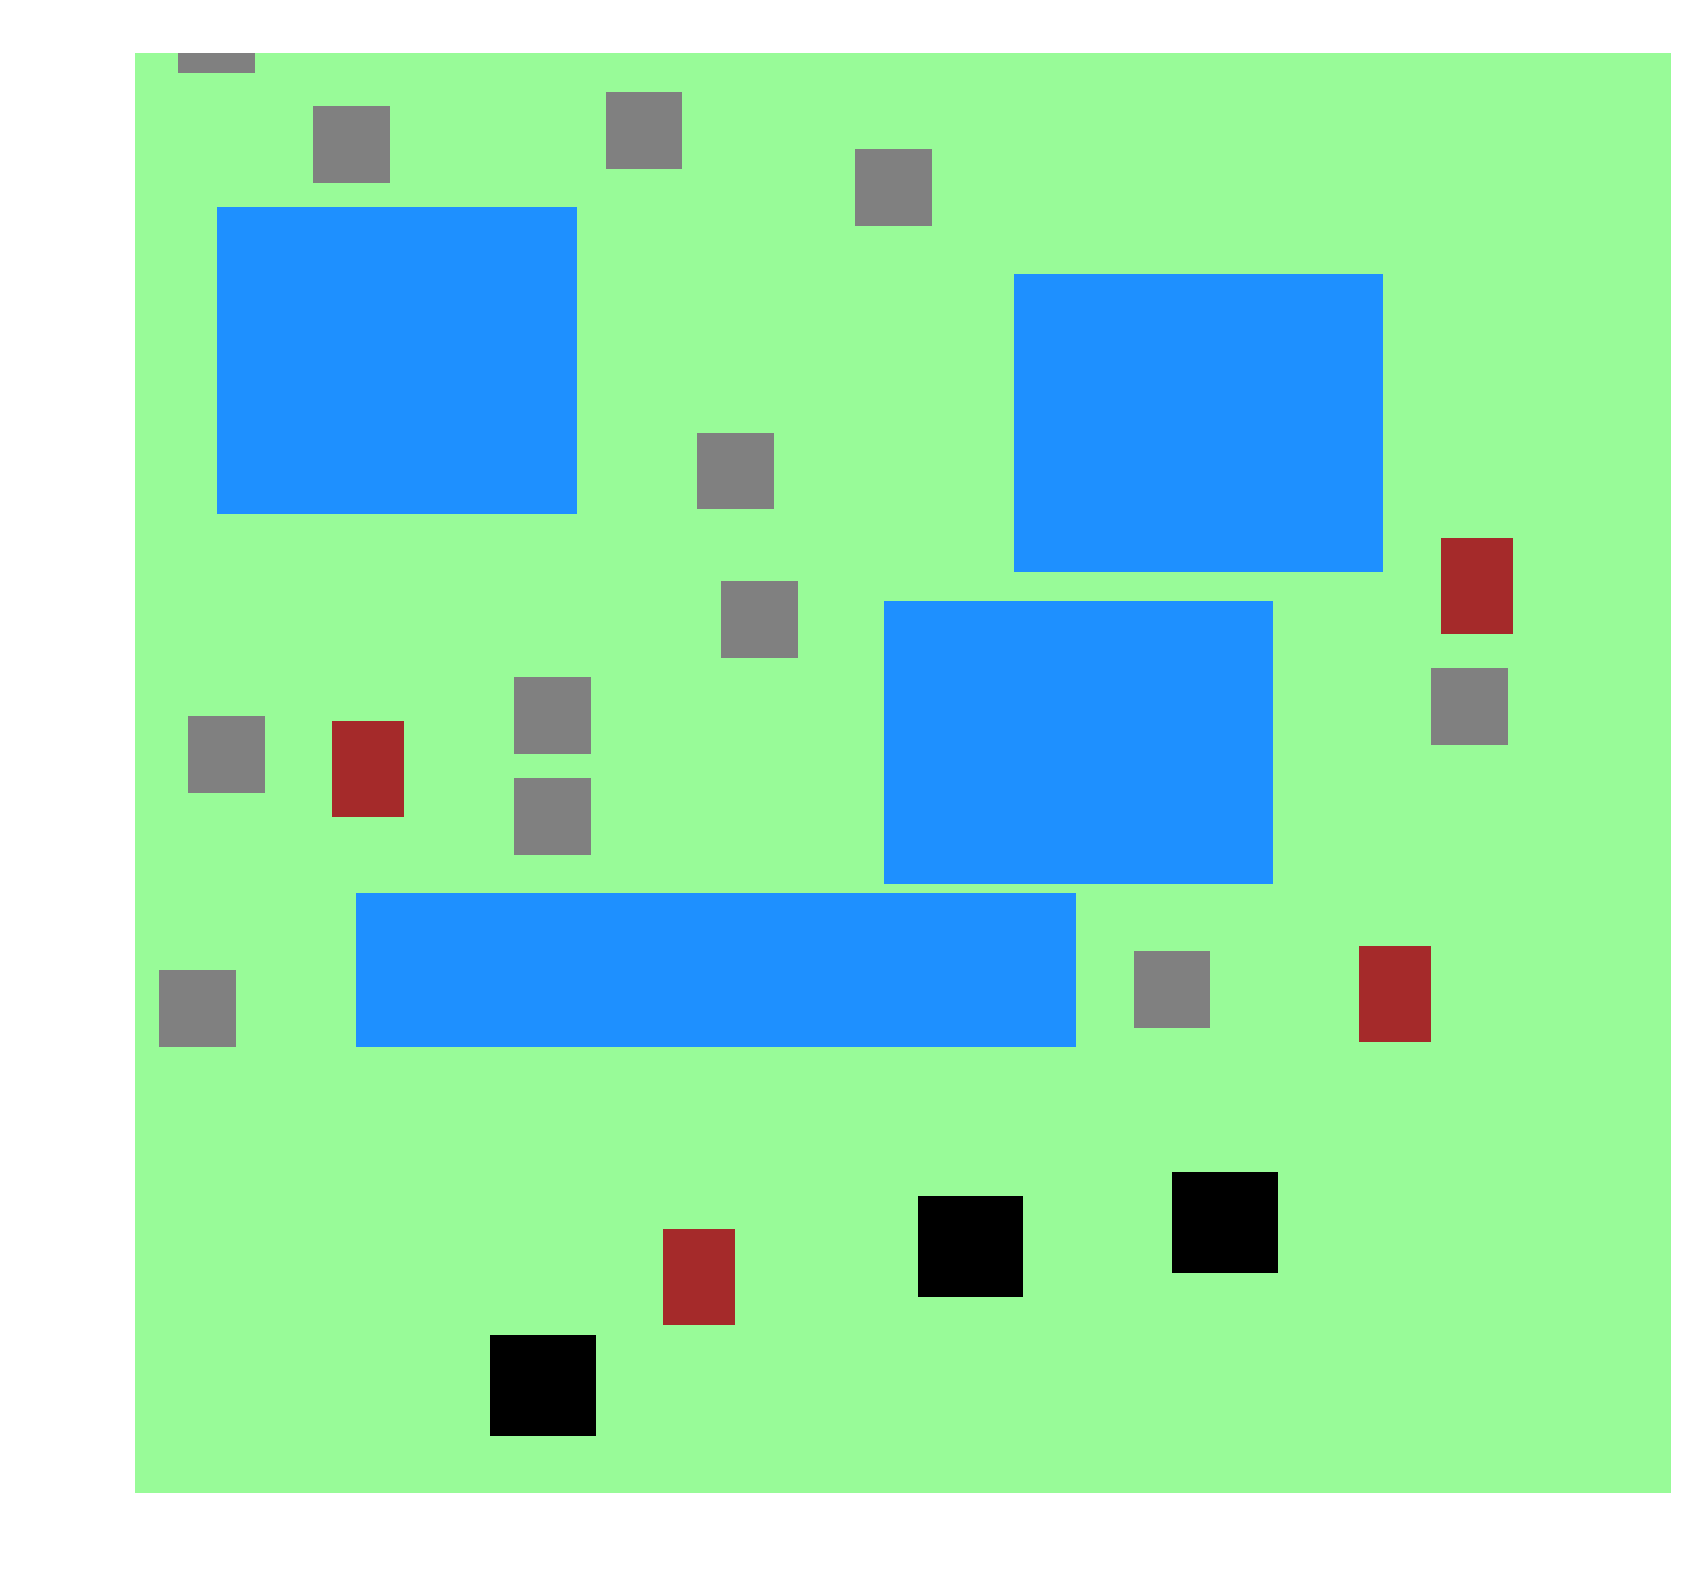
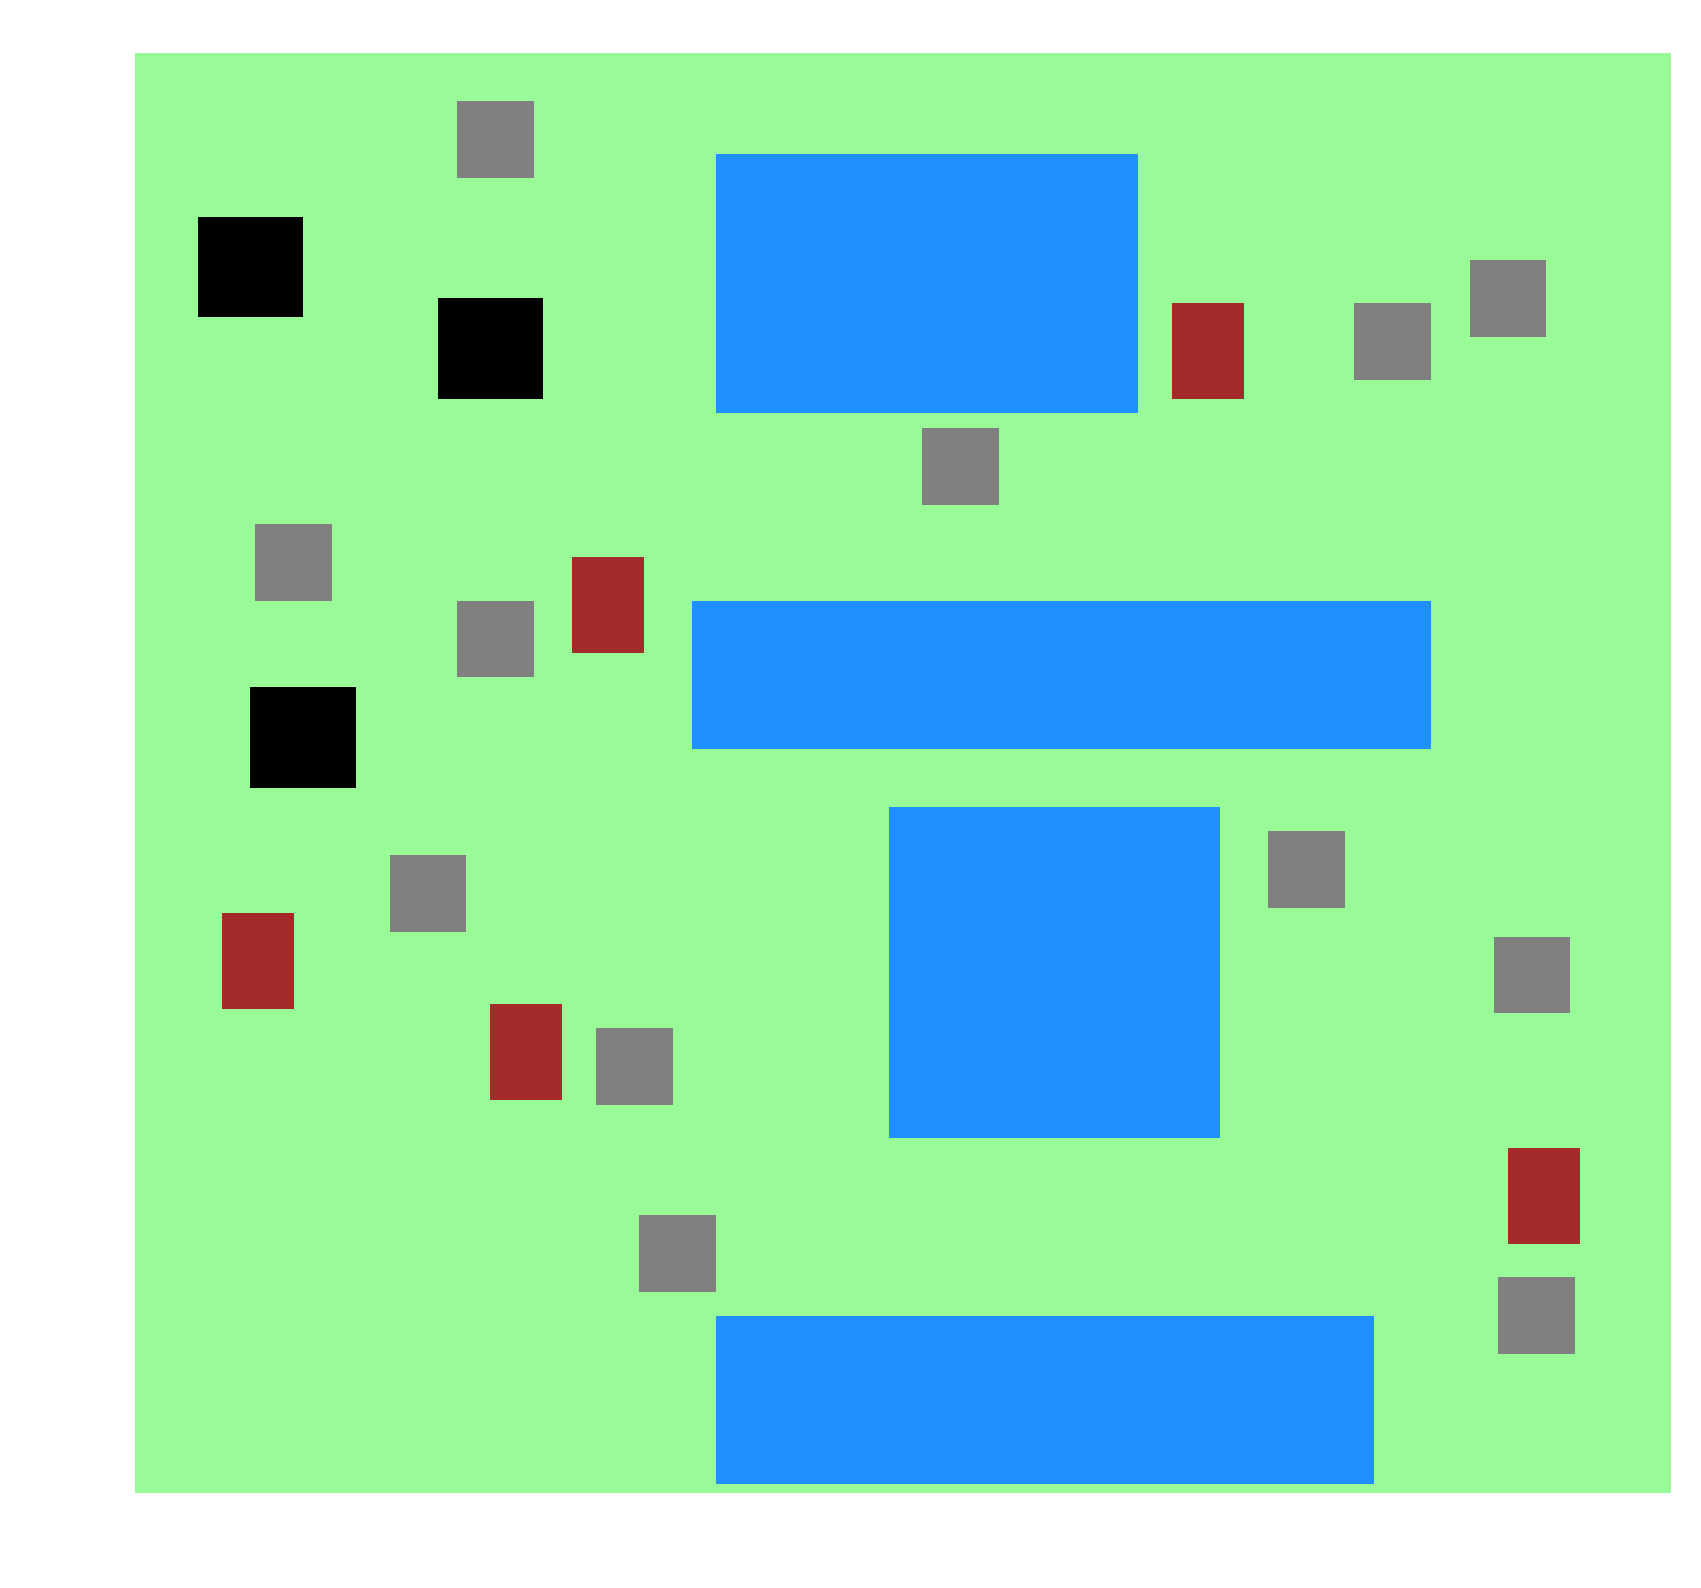
swap en schuif nu netjes binnen de map

diff --git a/swap.py b/swap.py
@@ -18,35 +18,44 @@ def swapHouse(combinatie):
     swap(huis1, huis2)
     mogelijk = True
 
-    # check if house 1 has enough space
-    for i in range (2,len(combinatie.houses)):
-        xiH1 = combinatie.houses[i].hoekpunt.x
-        yiH1 = combinatie.houses[i].hoekpunt.y
-        #check if H1 left and right corners are within iH1's x-range
-        if (xH1 - huis1.minVrij <= xiH1 <= xH1 + huis1.width + huis1.minVrij) or (xH1 - huis1.minVrij <= xiH1 + combinatie.houses[i].width <= xH1 + huis1.width + huis1.minVrij):
-            #check if H1 top and bottom corners are within iH1's y-range
-            if (yH1 - huis1.minVrij <= yiH1 <= yH1 + huis1.length + huis1.minVrij) or (yH1 - huis1.minVrij <= yiH1 + combinatie.houses[i].length <= yH1 + huis1.length + huis1.minVrij):
-                mogelijk = False
-        #check if iH1 left and right corners are within H1's x-range
-        if (xiH1 - combinatie.houses[i].minVrij <= xH1 <= xiH1 + combinatie.houses[i].width + combinatie.houses[i].minVrij) or (xiH1 - combinatie.houses[i].minVrij <= xH1 + huis1.width <= xiH1 + combinatie.houses[i].width + combinatie.houses[i].minVrij):
-            #check if iH1 top and bottom corners are within H1's y-range
-            if (yiH1 - combinatie.houses[i].minVrij <= yH1 <= yiH1 + combinatie.houses[i].length + combinatie.houses[i].minVrij) or (yiH1 - combinatie.houses[i].minVrij <= yH1 + huis1.length <= yiH1 + combinatie.houses[i].length + combinatie.houses[i].minVrij):
-                mogelijk = False
+    if xH1 - huis1.minVrij < 0 or xH1 + huis1.width + huis1.minVrij > combinatie.map.width:
+        mogelijk = False
+    elif yH1 - huis1.minVrij < 0 or yH1 + huis1.length + huis1.minVrij > combinatie.map.length:
+        mogelijk = False
+    elif xH2 - huis2.minVrij < 0 or xH2 + huis2.width + huis2.minVrij > combinatie.map.width:
+        mogelijk = False
+    elif yH2 - huis2.minVrij < 0 or yH2 + huis2.length + huis2.minVrij > combinatie.map.length:
+        mogelijk = False
 
-    # check if house 2 has enough space
-    for i in range (2,len(combinatie.houses)):
-        xiH2 = combinatie.houses[i].hoekpunt.x
-        yiH2 = combinatie.houses[i].hoekpunt.y
-        #check if H2 left and right corners are within iH2's x-range
-        if (xH2 - huis2.minVrij <= xiH2 <= xH2 + huis2.width + huis2.minVrij) or (xH2 - huis2.minVrij <= xiH2 + combinatie.houses[i].width <= xH2 + huis2.width + huis2.minVrij):
-            #check if H2 top and bottom corners are within H1's y-range
-            if (yH2 - huis2.minVrij <= yiH2 <= yH2 + huis2.length + huis2.minVrij) or (yH2 - huis2.minVrij <= yiH2 + combinatie.houses[i].length <= yH2 + huis2.length + huis2.minVrij):
-                mogelijk = False
-        #check if iH2 left and right corners are within H2's x-range
-        if (xiH2 - combinatie.houses[i].minVrij <= xH2 <= xiH2 + combinatie.houses[i].width + combinatie.houses[i].minVrij) or (xiH2 - combinatie.houses[i].minVrij <= xH2 + huis2.width <= xiH2 + combinatie.houses[i].width + combinatie.houses[i].minVrij):
-            #check if H1 top and bottom corners are within H2's y-range
-            if (yiH2 - combinatie.houses[i].minVrij <= yH2 <= yiH2 + combinatie.houses[i].length + combinatie.houses[i].minVrij) or (yiH2 - combinatie.houses[i].minVrij <= yH2 + huis2.length <= yiH2 + combinatie.houses[i].length + combinatie.houses[i].minVrij):
-                mogelijk = False
+    if mogelijk == True:
+        # check if house 1 has enough space
+        for i in range (2,len(combinatie.houses)):
+            xiH1 = combinatie.houses[i].hoekpunt.x
+            yiH1 = combinatie.houses[i].hoekpunt.y
+            #check if H1 left and right corners are within iH1's x-range
+            if (xH1 - huis1.minVrij <= xiH1 <= xH1 + huis1.width + huis1.minVrij) or (xH1 - huis1.minVrij <= xiH1 + combinatie.houses[i].width <= xH1 + huis1.width + huis1.minVrij):
+                #check if H1 top and bottom corners are within iH1's y-range
+                if (yH1 - huis1.minVrij <= yiH1 <= yH1 + huis1.length + huis1.minVrij) or (yH1 - huis1.minVrij <= yiH1 + combinatie.houses[i].length <= yH1 + huis1.length + huis1.minVrij):
+                    mogelijk = False
+            #check if iH1 left and right corners are within H1's x-range
+            if (xiH1 - combinatie.houses[i].minVrij <= xH1 <= xiH1 + combinatie.houses[i].width + combinatie.houses[i].minVrij) or (xiH1 - combinatie.houses[i].minVrij <= xH1 + huis1.width <= xiH1 + combinatie.houses[i].width + combinatie.houses[i].minVrij):
+                #check if iH1 top and bottom corners are within H1's y-range
+                if (yiH1 - combinatie.houses[i].minVrij <= yH1 <= yiH1 + combinatie.houses[i].length + combinatie.houses[i].minVrij) or (yiH1 - combinatie.houses[i].minVrij <= yH1 + huis1.length <= yiH1 + combinatie.houses[i].length + combinatie.houses[i].minVrij):
+                    mogelijk = False
+        # check if house 2 has enough space
+        for i in range (2,len(combinatie.houses)):
+            xiH2 = combinatie.houses[i].hoekpunt.x
+            yiH2 = combinatie.houses[i].hoekpunt.y
+            #check if H2 left and right corners are within iH2's x-range
+            if (xH2 - huis2.minVrij <= xiH2 <= xH2 + huis2.width + huis2.minVrij) or (xH2 - huis2.minVrij <= xiH2 + combinatie.houses[i].width <= xH2 + huis2.width + huis2.minVrij):
+                #check if H2 top and bottom corners are within H1's y-range
+                if (yH2 - huis2.minVrij <= yiH2 <= yH2 + huis2.length + huis2.minVrij) or (yH2 - huis2.minVrij <= yiH2 + combinatie.houses[i].length <= yH2 + huis2.length + huis2.minVrij):
+                    mogelijk = False
+            #check if iH2 left and right corners are within H2's x-range
+            if (xiH2 - combinatie.houses[i].minVrij <= xH2 <= xiH2 + combinatie.houses[i].width + combinatie.houses[i].minVrij) or (xiH2 - combinatie.houses[i].minVrij <= xH2 + huis2.width <= xiH2 + combinatie.houses[i].width + combinatie.houses[i].minVrij):
+                #check if H1 top and bottom corners are within H2's y-range
+                if (yiH2 - combinatie.houses[i].minVrij <= yH2 <= yiH2 + combinatie.houses[i].length + combinatie.houses[i].minVrij) or (yiH2 - combinatie.houses[i].minVrij <= yH2 + huis2.length <= yiH2 + combinatie.houses[i].length + combinatie.houses[i].minVrij):
+                    mogelijk = False
 
     if mogelijk != True:
         swap(huis1, huis2)

diff --git a/schuiven.py b/schuiven.py
@@ -15,6 +15,10 @@ def schuiven(combinatie):
             #   kies plaats om naar toe te schuiven
             newx = random.randint(hoek.x - temp, hoek.x + temp)
             newy = random.randint(hoek.y - temp, hoek.y + temp)
+            while newx - huis.minVrij < 0 or newx + huis.width + huis.minVrij > combinatie.map.width:
+                newx = random.randint(hoek.x - temp, hoek.x + temp)
+            while newy - huis.minVrij < 0 or newy + huis.length + huis.minVrij > combinatie.map.length:
+                newy = random.randint(hoek.y - temp, hoek.y + temp)
             #   indien mogelijk: verplaats
             mogelijk = True
             for i in range(1, len(combinatie.houses)):

diff --git a/main.py b/main.py
@@ -44,7 +44,7 @@ aantalwater = 4
 uitkomsten = []
 hoogstewaarde = 0
 iteratie = 0
-maxverwerpen = 100
+maxverwerpen = 10
 verwerpen = 0
 randommapper = 500
 best = 0
@@ -52,7 +52,7 @@ best = 0
 criterium = 0
 
 #  afvangen hoeveelheid arguments!
-if len(sys.argv) > 4:
+if len(sys.argv) != 4:
     informWrongUsage()
 # sys.argv[] -> 1: aantal huizen; 2:methode; 3: score criterium
 if int(sys.argv[1]) not in toegestanehuizen:
